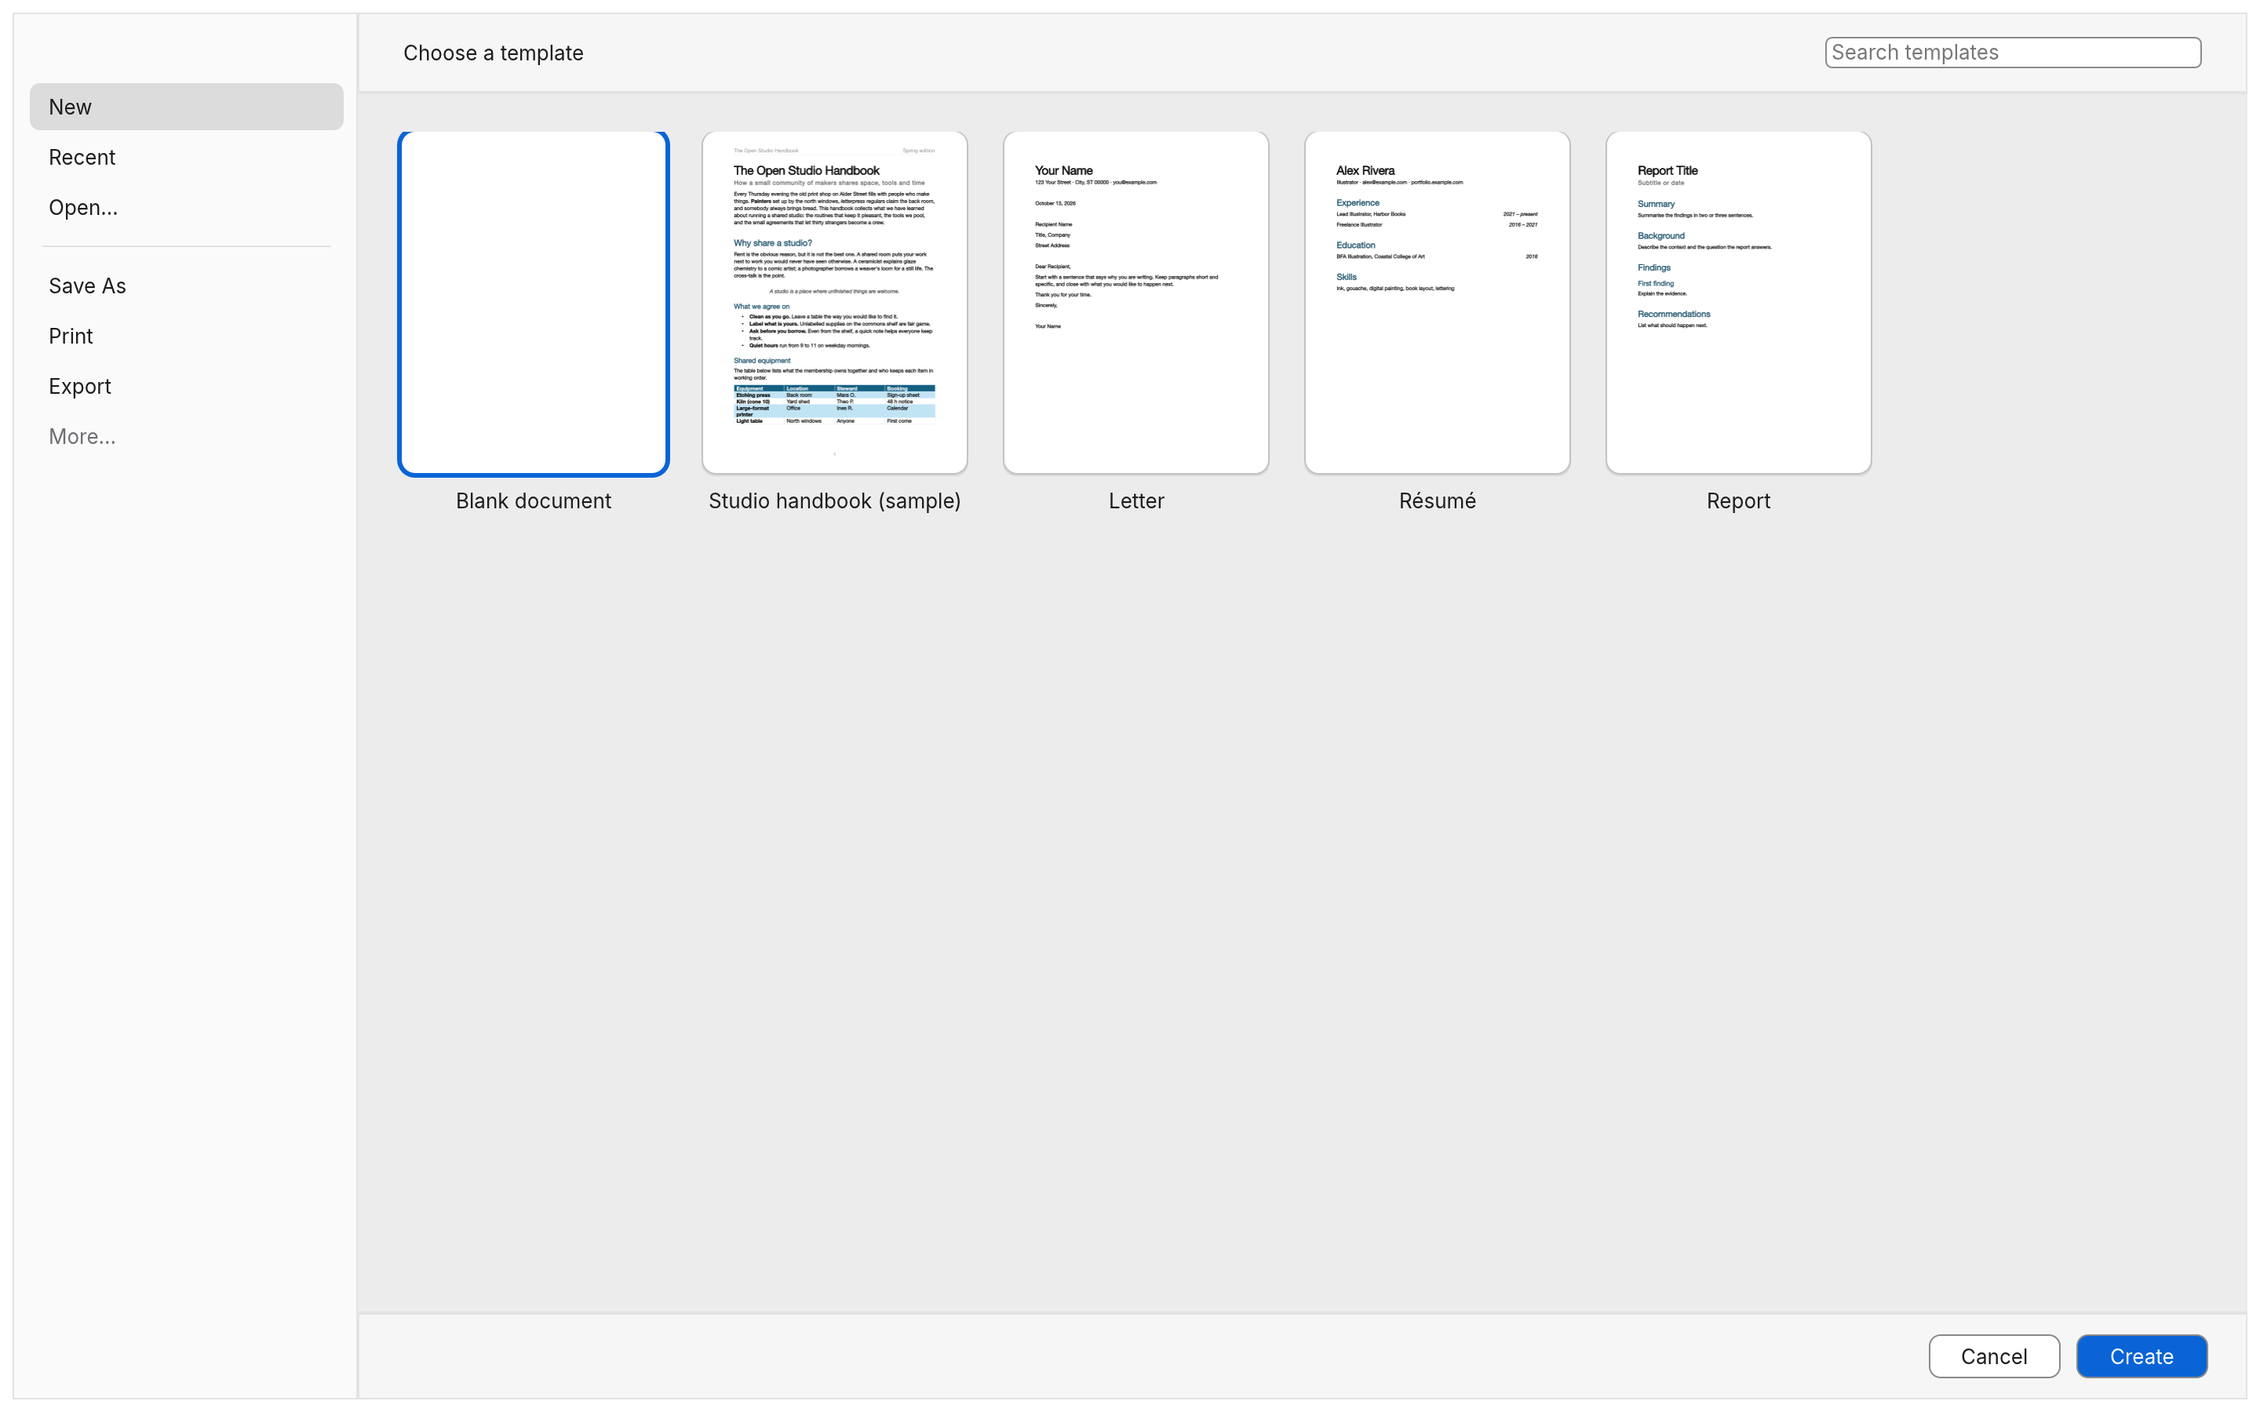
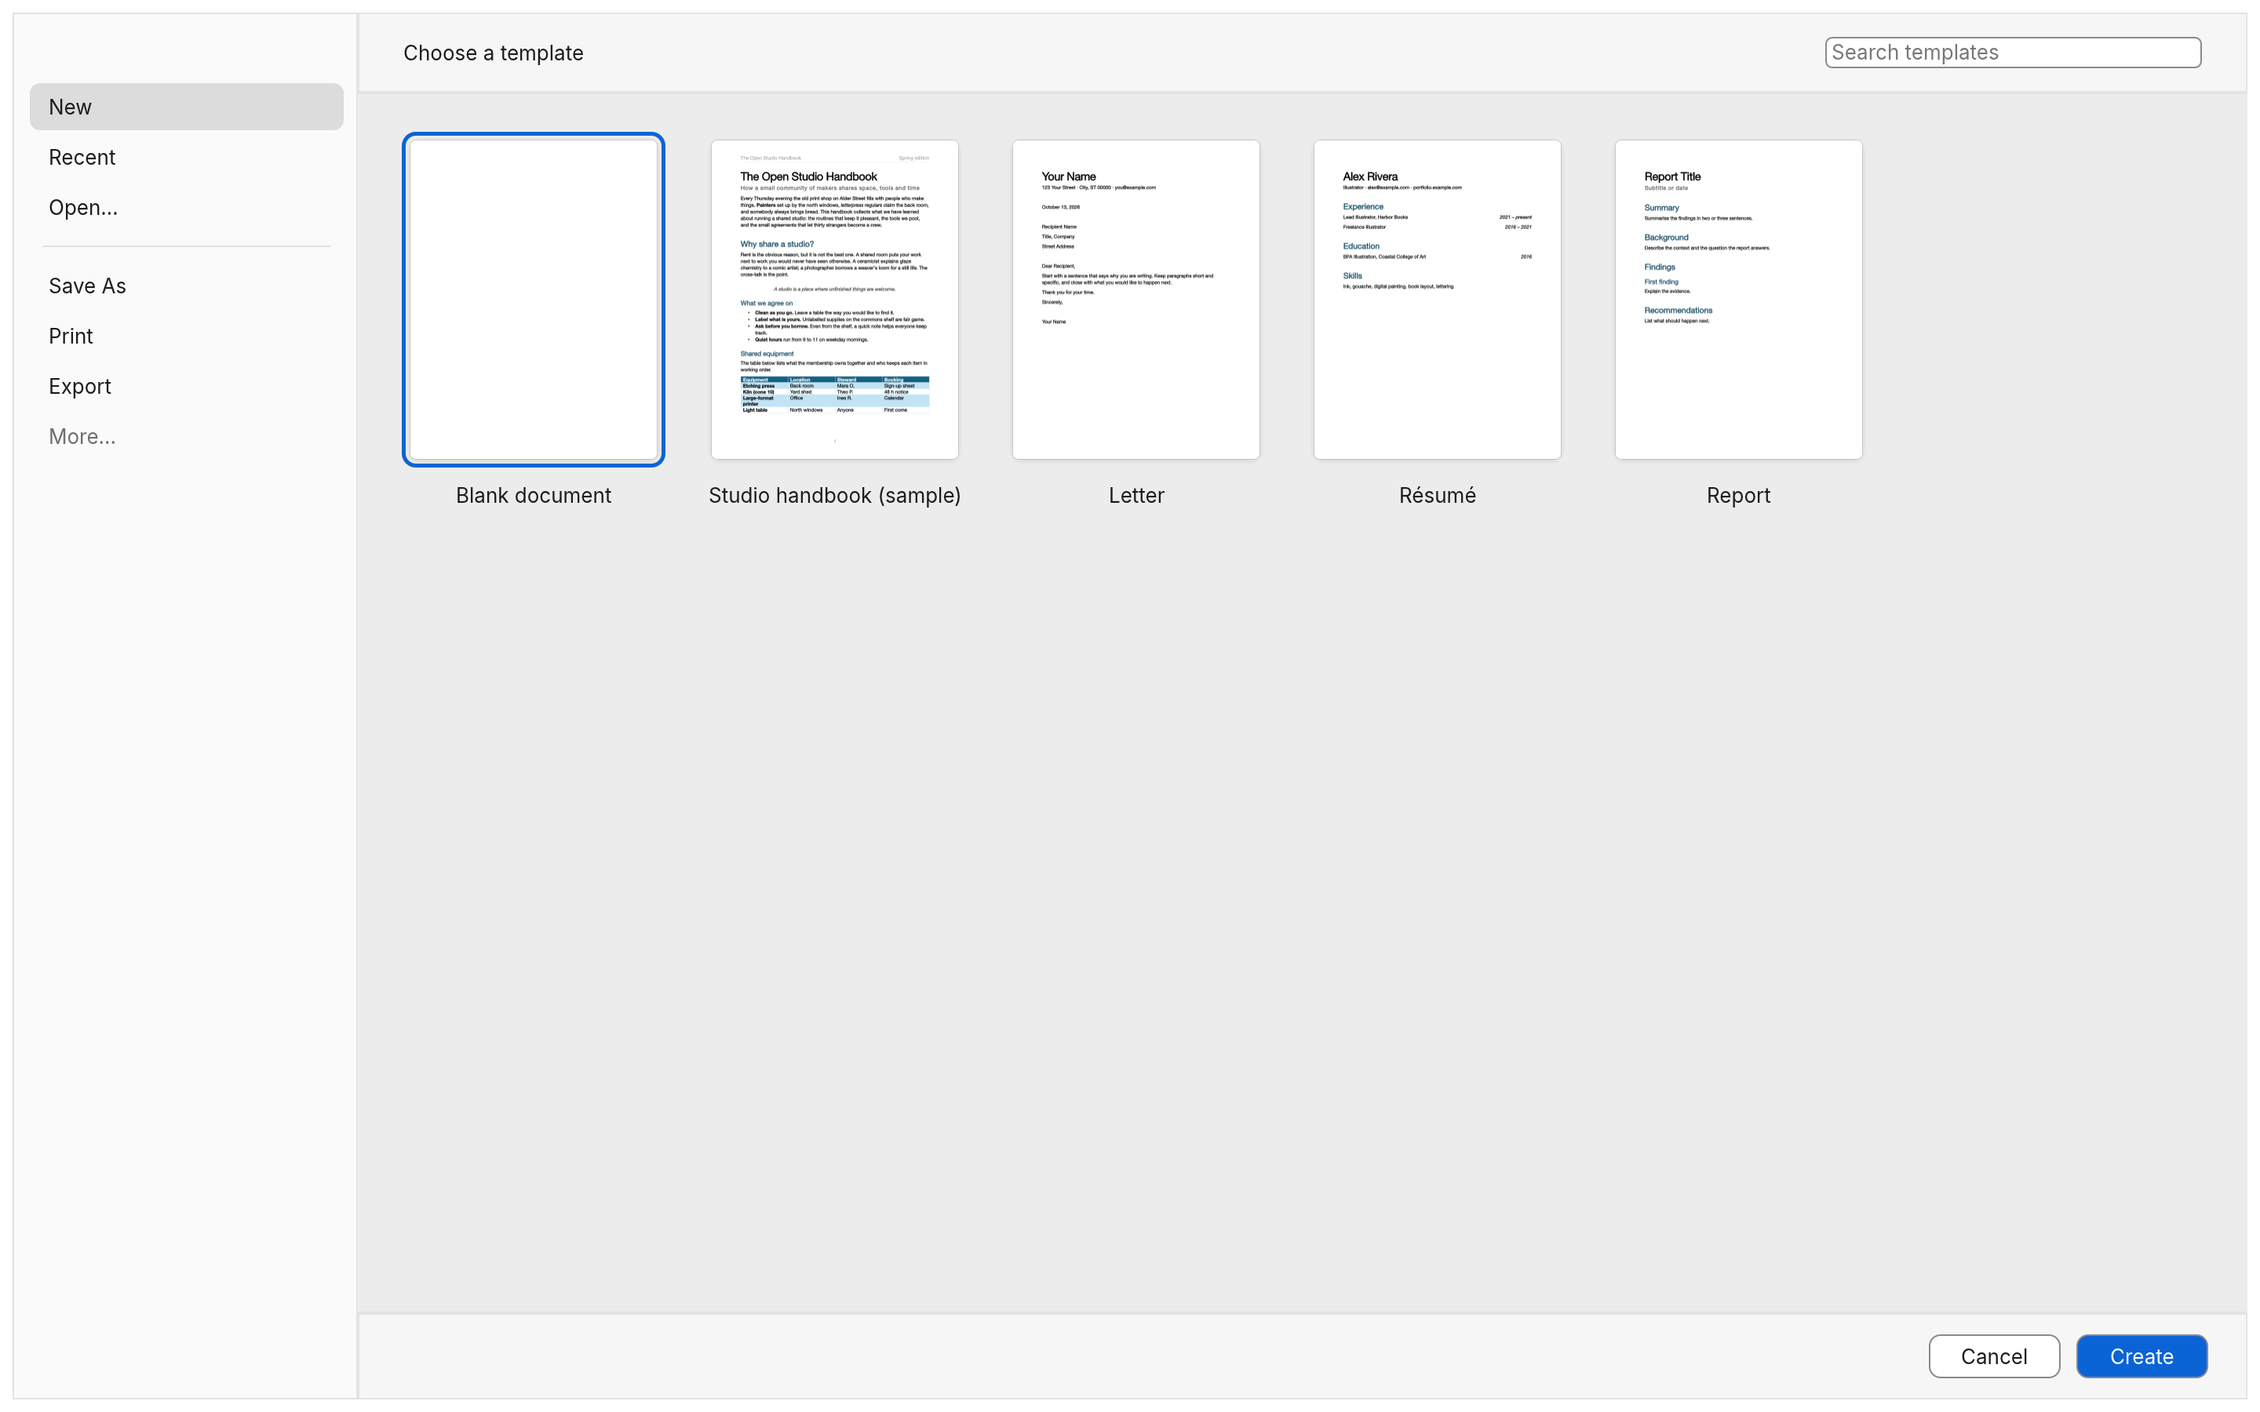
Design handoff for Claude Design: 22 key screens (light/dark), brief with can/can't-change

diff --git a/docs/design-handoff/BRIEF.md b/docs/design-handoff/BRIEF.md
@@ -1,0 +1,134 @@
+# Margin — design brief for fine-tuning
+
+Date: 2026-10-13 · Build: fork of WordCraft 0.6.0 · Repo: github.com/mjhmjeg/margin
+
+## 1. What Margin is
+
+Margin is a **word processor for the Mac**. It opens, edits and saves Word documents (.docx), plus
+ODT, RTF, Markdown, HTML and PDF export. Under the hood it is **WordCraft**, an open-source,
+pure-Rust reimplementation of Microsoft Word. Margin keeps WordCraft's document engine and replaces
+its Office-style interface with one that feels native on macOS.
+
+**Who it is for:** people on a Mac who receive and send Word documents and want a calm, Pages-like
+editor instead of Word's ribbon. Free and open source (MIT / Apache-2.0), published on GitHub.
+
+**Design direction so far (approved):** flat, quiet, Mac-native. Flat surfaces with hairline borders,
+Apple system blue as the single accent, **one interface type size (13 pt, regular weight)** with
+hierarchy by colour only, generous spacing, light and dark following macOS. Liquid Glass was tried
+and rejected in favour of flat.
+
+## 2. Screens (in `screens/`)
+
+All screenshots are 1440 × 900 pt windows at 2× (2880 × 1800 px). Light and dark where it matters.
+
+| File | Screen | Notes |
+|---|---|---|
+| `01-home-templates-*` | Home › New: "Choose a template" | Shown at launch and on File › New (⌘N). Five templates; cards show the real first page. |
+| `02-home-recent-*` | Home › Recent | Recent documents as first-page thumbnails, folder · date. |
+| `09-home-save-as-light` | Home › Save As | Upstream page reused inside the Margin frame. |
+| `10-home-export-light` | Home › Export | Upstream page, list of export formats. |
+| `11-home-more-options-light` | Home › More… › Options | Upstream settings page (many sections). |
+| `03-editor-text-*` | Editor, Format inspector › Text | Main working screen. |
+| `04-editor-layout-*` | Inspector › Layout | Indents, columns, pagination. |
+| `05-editor-document-*` | Inspector › Document (Pages) | Format, paper, orientation, margins, header/footer. |
+| `06-editor-pageless-*` | Pageless (Google Docs-style) | One continuous sheet; text width Narrow/Medium/Full. |
+| `07-editor-outline-*` | Outline sidebar open | Upstream Navigation pane (headings, pages, search results). |
+| `08-editor-no-inspector-light` | Inspector hidden | Focus on the page. |
+| `12-toolbar-table-menu-light` | Toolbar › Table menu | Popover style. |
+| `13-toolbar-zoom-menu-light` | Toolbar › Zoom menu | Popover style. |
+| `14-dialog-paragraph-light` | A dialog (Format › Paragraph…) | **Upstream dialog, not yet restyled** — representative of ~50 dialog types. |
+| `15-classic-ribbon-light` | View › Classic Ribbon (⌃⌘R) | The original WordCraft ribbon, kept as an option. Out of scope for redesign. |
+
+Earlier design references: `docs/mac/mockup.html` (editor, approved) and `docs/mac/home-mockup.html`
+(home). Before/after of the original WordCraft UI: `docs/mac/before/`.
+
+**Not in the screenshots: the macOS menu bar** (it is drawn by macOS, not the app):
+Margin (About, Settings…, Services, Hide, Quit) · File (New… ⌘N, Open… ⌘O, Close ⌘W, Save ⌘S,
+Save As… ⇧⌘S, Export as PDF…, Print… ⌘P) · Edit (Undo, Redo, Cut, Copy, Paste, Paste and Match
+Style, Select All, Find…, Find and Replace…, Spelling and Grammar) · Insert (Table…, Image…, Shape ›,
+Link… ⌘K, Page Break, Footnote, Table of Contents, Comment) · Format (Bold, Italic, Underline,
+Strikethrough, Align Left/Center/Right/Justify, Bullets, Numbering, Paragraph Style ›, Font…,
+Paragraph…) · Review (Track Changes, Accept, Reject, Next Change, New Comment, Word Count) · View
+(Show Outline, Show Format Inspector, Show Ruler, Show Invisibles, Pageless, Dark Page, Focus, Zoom
+In/Out, Actual Size, Fit Width, Classic Ribbon, Full Screen) · Window · Help (Search Commands…).
+
+## 3. Current design system (the values in the build)
+
+**Type:** Inter, 13 pt, regular (400) for all interface text. No bold, no size steps. Document
+content uses the document's own fonts (not part of the UI).
+
+**Colour (light / dark):**
+
+| Token | Light | Dark | Used for |
+|---|---|---|---|
+| title bar, toolbar, status bar | #F6F6F6 | #2A2A2A | chrome |
+| panel (inspector, sidebars) | #FAFAFA | #262626 | side panels |
+| canvas (desk around pages) | #ECECEC | #1E1E1E | behind the page |
+| border (hairline) | #E3E3E3 | #383838 | dividers |
+| border strong | #D1D1D1 | #474747 | |
+| input border | #8A8A8A | #7A7A7A | fields, segmented controls (min. 3:1 contrast) |
+| text | #1D1D1F | #F2F2F2 | |
+| text dim | #6E6E73 | #A1A1A6 | labels |
+| group label (section titles, hints) | #A1A1A6 | #6E6E73 | |
+| hover / pressed / checked | #EAEAEA / #DCDCDC / #E3E3E3 | #333 / #3D3D3D / #3A3A3A | |
+| accent | #0A64D6 (Apple blue) | #3D9BFF | selection, primary button, active segment |
+| on accent (text on blue) | #FFFFFF | #0B1A2E | |
+| page | #FFFFFF | #FFFFFF (Dark Page is a separate option) | |
+
+**Sizes (pt):** toolbar 36 high (controls centred on the 28 pt traffic-light band) · inspector 272
+wide, 16 side padding, 14 section padding, rows 26 high · segmented controls and fields radius 6 ·
+toolbar buttons 30 × 24, radius 6 · home sidebar 220 wide, rows 30 high, pill radius 6 · template
+cards 168 wide, paper radius 3, soft shadow, selection ring 2.5 pt with 3 pt gap · status bar 26 high.
+
+**Icons:** line icons drawn in code (`crates/ui-egui/src/icons.rs`), 17 pt in the toolbar.
+
+## 4. What we CAN change
+
+- **Every colour, size, spacing, radius, border and shadow** in the tables above (they are tokens).
+- **Layout of Margin's own screens:** toolbar (which buttons, order, grouping), the Format inspector
+  (tabs, sections, controls, order), the Home screen (sidebar, cards, header, footer), the outline
+  sidebar's look, the status bar contents.
+- **Which controls appear where**: anything the engine can do can get a button (~600 commands exist:
+  formatting, styles, lists, tables, images, shapes, track changes, comments, references, mail
+  merge, page setup…).
+- **Copy / labels** in Margin's screens.
+- **Icons**: new or changed icons, as long as they are simple vector shapes we can draw in code.
+- **The app icon** (`assets/app-icon/margin.svg`, a placeholder): any original artwork, delivered as SVG.
+- **Popovers and menus inside the window** (toolbar menus, combo lists): look and spacing.
+- **Dialogs**: a common restyle via tokens (padding, fields, buttons) is possible; per-dialog
+  redesign is possible but costs work per dialog (there are ~50).
+
+## 5. What we can NOT change (or only at high cost)
+
+- **Truly native Mac controls.** The UI is drawn by egui (immediate-mode, custom-drawn), not AppKit.
+  We match the look of Mac controls; we can't use real NSButton/NSTextField, real NSToolbar,
+  native popovers or sheets.
+- **Translucency / blur of window content** (Liquid Glass, vibrancy behind the document): not
+  supported. Flat surfaces only.
+- **Traffic lights position.** macOS fixes them in a 28 pt band at the top-left; the toolbar must
+  share that band (no taller unified toolbar with centred lights).
+- **The macOS menu bar look.** It is the system's; we choose items, names, order and shortcuts only.
+- **System font (SF Pro).** Can't be bundled (licence). Interface font is Inter (open); any other
+  font must be open-licensed.
+- **No Microsoft / Apple / Adobe assets.** No icons, images or templates copied from Word, Pages or
+  any proprietary app (clean-room rule of the WordCraft project). Everything original or openly licensed.
+- **Accessibility floors** (enforced by tests): text on blue ≥ 4.5:1 contrast, field outlines
+  ≥ 3:1 against their background. Very faint hairlines on inputs or white text on bright blue fail.
+- **Document rendering.** How the page and its content look (fonts, Word layout, the page itself) is
+  the document, not the UI. We can change the desk around it and the page shadow/edge.
+- **The Classic ribbon.** Kept as WordCraft's original for people who want it; not redesigned.
+- **Upstream settings pages** (Options, Info, Print, Export) are WordCraft's; restyle via tokens yes,
+  full redesign = bigger work.
+
+## 6. What we'd like back from Claude Design
+
+1. Annotated frames for the screens above (at least: Home templates, Home recent, editor with
+   inspector Text/Layout/Document, Pageless, outline open), light and dark.
+2. Changed values as a **token list** (name → light / dark value) and sizes in **pt**, so they map
+   1:1 onto `crates/ui-egui/src/skin.rs` and `mac_ui.rs` / `mac_home.rs`.
+3. Any new icons as **SVG** (simple strokes, 24 × 24 grid).
+4. A short list of layout changes per screen ("move X above Y", "drop Z").
+
+Constraints from the product owner: whitespace over density; no cramped controls; one type size
+(hierarchy by colour, underline rather than bold for selected); no visible "AI" or generic
+dashboard look; dark mode nice to have, never a blocker.

diff --git a/ATTRIBUTION.md b/ATTRIBUTION.md
@@ -29,6 +29,29 @@ Generated-in-code art is original and has no file to list: the UI icon set (`cra
 | `docs/mac/phase5/home.png` | Margin fork contributors | screenshot of this app's own interface, rendered by `ui_shot` | MIT OR Apache-2.0 | Margin design record (before/after, phase screenshots) |
 | `docs/mac/phase5/pageless-outline.png` | Margin fork contributors | screenshot of this app's own interface, rendered by `ui_shot` | MIT OR Apache-2.0 | Margin design record (before/after, phase screenshots) |
 | `docs/mac/phase5/recent.png` | Margin fork contributors | screenshot of this app's own interface, rendered by `ui_shot` | MIT OR Apache-2.0 | Margin design record (before/after, phase screenshots) |
+| `docs/design-handoff/00-overview.png` | Margin fork contributors | screenshot of this app's own interface, rendered by `ui_shot` | MIT OR Apache-2.0 | Claude Design handoff (2026-10-13) |
+| `docs/design-handoff/screens/01-home-templates-dark.png` | Margin fork contributors | screenshot of this app's own interface, rendered by `ui_shot` | MIT OR Apache-2.0 | Claude Design handoff (2026-10-13) |
+| `docs/design-handoff/screens/01-home-templates-light.png` | Margin fork contributors | screenshot of this app's own interface, rendered by `ui_shot` | MIT OR Apache-2.0 | Claude Design handoff (2026-10-13) |
+| `docs/design-handoff/screens/02-home-recent-dark.png` | Margin fork contributors | screenshot of this app's own interface, rendered by `ui_shot` | MIT OR Apache-2.0 | Claude Design handoff (2026-10-13) |
+| `docs/design-handoff/screens/02-home-recent-light.png` | Margin fork contributors | screenshot of this app's own interface, rendered by `ui_shot` | MIT OR Apache-2.0 | Claude Design handoff (2026-10-13) |
+| `docs/design-handoff/screens/03-editor-text-dark.png` | Margin fork contributors | screenshot of this app's own interface, rendered by `ui_shot` | MIT OR Apache-2.0 | Claude Design handoff (2026-10-13) |
+| `docs/design-handoff/screens/03-editor-text-light.png` | Margin fork contributors | screenshot of this app's own interface, rendered by `ui_shot` | MIT OR Apache-2.0 | Claude Design handoff (2026-10-13) |
+| `docs/design-handoff/screens/04-editor-layout-dark.png` | Margin fork contributors | screenshot of this app's own interface, rendered by `ui_shot` | MIT OR Apache-2.0 | Claude Design handoff (2026-10-13) |
+| `docs/design-handoff/screens/04-editor-layout-light.png` | Margin fork contributors | screenshot of this app's own interface, rendered by `ui_shot` | MIT OR Apache-2.0 | Claude Design handoff (2026-10-13) |
+| `docs/design-handoff/screens/05-editor-document-dark.png` | Margin fork contributors | screenshot of this app's own interface, rendered by `ui_shot` | MIT OR Apache-2.0 | Claude Design handoff (2026-10-13) |
+| `docs/design-handoff/screens/05-editor-document-light.png` | Margin fork contributors | screenshot of this app's own interface, rendered by `ui_shot` | MIT OR Apache-2.0 | Claude Design handoff (2026-10-13) |
+| `docs/design-handoff/screens/06-editor-pageless-dark.png` | Margin fork contributors | screenshot of this app's own interface, rendered by `ui_shot` | MIT OR Apache-2.0 | Claude Design handoff (2026-10-13) |
+| `docs/design-handoff/screens/06-editor-pageless-light.png` | Margin fork contributors | screenshot of this app's own interface, rendered by `ui_shot` | MIT OR Apache-2.0 | Claude Design handoff (2026-10-13) |
+| `docs/design-handoff/screens/07-editor-outline-dark.png` | Margin fork contributors | screenshot of this app's own interface, rendered by `ui_shot` | MIT OR Apache-2.0 | Claude Design handoff (2026-10-13) |
+| `docs/design-handoff/screens/07-editor-outline-light.png` | Margin fork contributors | screenshot of this app's own interface, rendered by `ui_shot` | MIT OR Apache-2.0 | Claude Design handoff (2026-10-13) |
+| `docs/design-handoff/screens/08-editor-no-inspector-light.png` | Margin fork contributors | screenshot of this app's own interface, rendered by `ui_shot` | MIT OR Apache-2.0 | Claude Design handoff (2026-10-13) |
+| `docs/design-handoff/screens/09-home-save-as-light.png` | Margin fork contributors | screenshot of this app's own interface, rendered by `ui_shot` | MIT OR Apache-2.0 | Claude Design handoff (2026-10-13) |
+| `docs/design-handoff/screens/10-home-export-light.png` | Margin fork contributors | screenshot of this app's own interface, rendered by `ui_shot` | MIT OR Apache-2.0 | Claude Design handoff (2026-10-13) |
+| `docs/design-handoff/screens/11-home-more-options-light.png` | Margin fork contributors | screenshot of this app's own interface, rendered by `ui_shot` | MIT OR Apache-2.0 | Claude Design handoff (2026-10-13) |
+| `docs/design-handoff/screens/12-toolbar-table-menu-light.png` | Margin fork contributors | screenshot of this app's own interface, rendered by `ui_shot` | MIT OR Apache-2.0 | Claude Design handoff (2026-10-13) |
+| `docs/design-handoff/screens/13-toolbar-zoom-menu-light.png` | Margin fork contributors | screenshot of this app's own interface, rendered by `ui_shot` | MIT OR Apache-2.0 | Claude Design handoff (2026-10-13) |
+| `docs/design-handoff/screens/14-dialog-paragraph-light.png` | Margin fork contributors | screenshot of this app's own interface, rendered by `ui_shot` | MIT OR Apache-2.0 | Claude Design handoff (2026-10-13) |
+| `docs/design-handoff/screens/15-classic-ribbon-light.png` | Margin fork contributors | screenshot of this app's own interface, rendered by `ui_shot` | MIT OR Apache-2.0 | Claude Design handoff (2026-10-13) |
 | `assets/app-icon/margin.svg` | Margin fork contributors | original artwork drawn in SVG (`assets/app-icon/margin.svg`), rendered by `packaging/macos/margin-icon.sh` | MIT OR Apache-2.0 | Margin app icon (macOS fork) |
 | `assets/app-icon/margin-1024.png` | Margin fork contributors | original artwork drawn in SVG (`assets/app-icon/margin.svg`), rendered by `packaging/macos/margin-icon.sh` | MIT OR Apache-2.0 | Margin app icon (macOS fork) |
 | `assets/app-icon/margin-macos-512.png` | Margin fork contributors | original artwork drawn in SVG (`assets/app-icon/margin.svg`), rendered by `packaging/macos/margin-icon.sh` | MIT OR Apache-2.0 | Margin app icon (macOS fork) |
